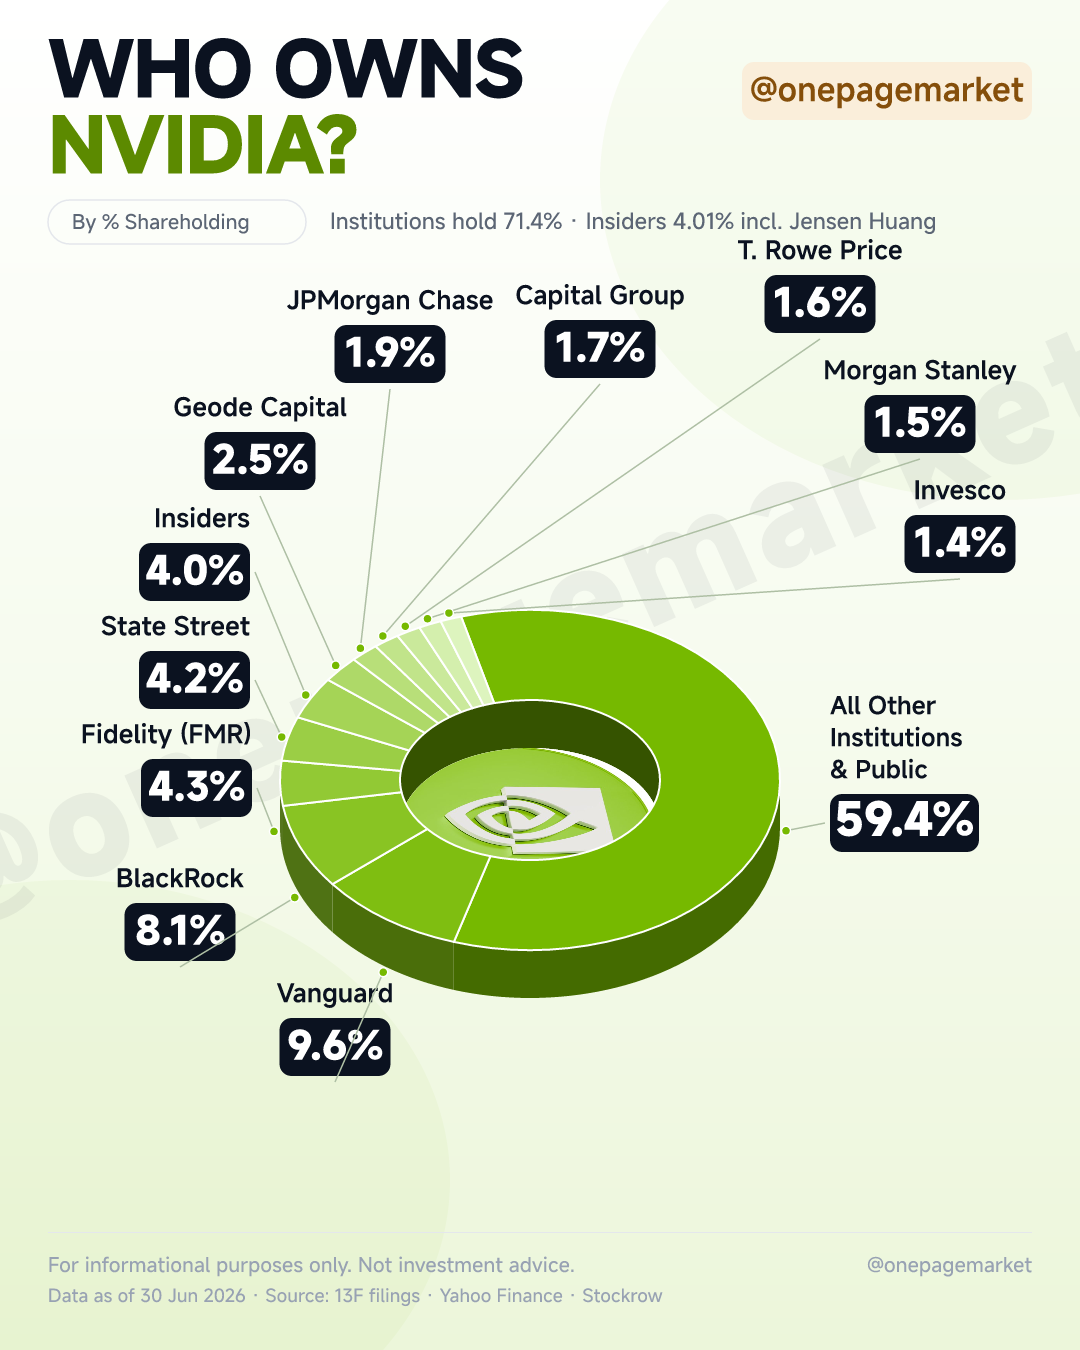
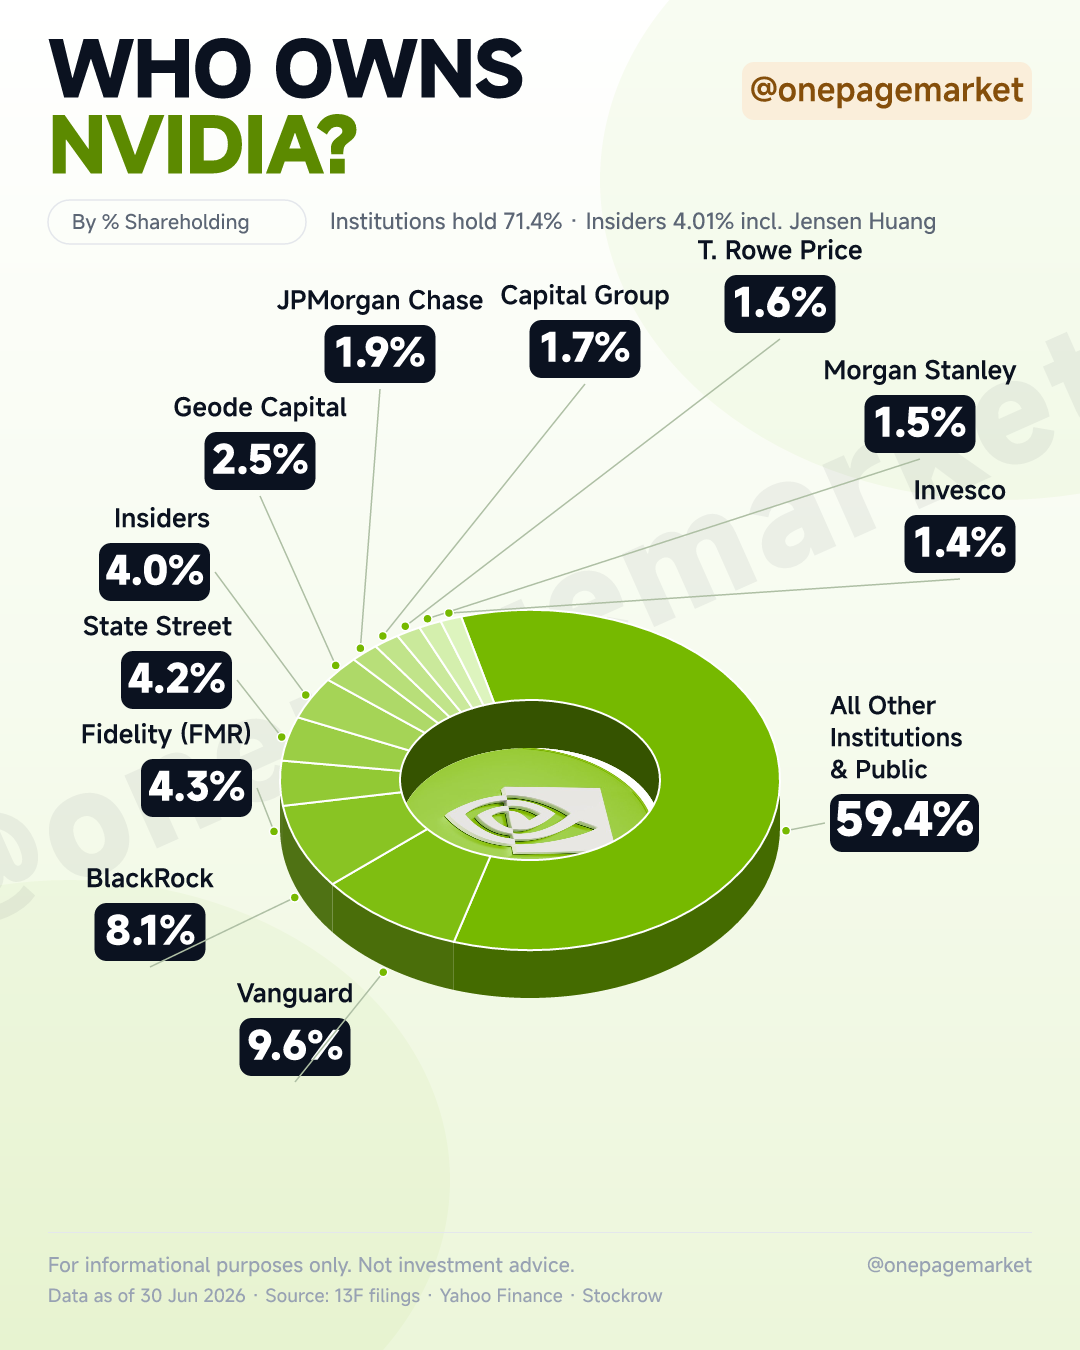
NVDA: left labels shifted left w/ elliptical stagger, top trio tightened

diff --git a/docs/index.html b/docs/index.html
@@ -48,7 +48,7 @@
 <div class="sub">預計下一張圖：On Deck · 今天 20:30（北京時間）</div></header>
 <div class="rule"></div>
 <main>
-<section class="sec"><div class="ghead"><b>Who Owns NVDA?</b><span class="day">Wed, Oct 21 · 1 張</span></div><div class="tweet"><button class="copy" data-t="Who owns NVIDIA? Institutions hold 71.4% — top: Vanguard 9.6%, BlackRock 8.1%, Fidelity 4.3%, State Street 4.2%. Insiders (incl. Jensen Huang) 4.0%. Everyone else: 59.4%. 🧵">複製文案</button><p>Who owns NVIDIA? Institutions hold 71.4% — top: Vanguard 9.6%, BlackRock 8.1%, Fidelity 4.3%, State Street 4.2%. Insiders (incl. Jensen Huang) 4.0%. Everyone else: 59.4%. 🧵</p><span class="len">172 字</span></div><div class="shots"><div class="shot"><a class="link" href="img/who-owns-nvda-20261021.png" target="_blank"><img src="img/who-owns-nvda-20261021.png" loading="lazy" alt="who-owns-nvda-20261021.png"></a><span class="ts">2026-10-21 19:55:49</span></div></div></section><section class="sec"><div class="ghead"><b>On Deck</b><span class="day">Wed, Oct 21 · 1 張</span></div><div class="tweet"><button class="copy" data-t="On Deck for today: Atlanta Fed GDPNow; Housing Starts; Building Permits. 91 companies report — PM, TMO, ABT before the open, META, TSLA, LRCX after the close. 🧵">複製文案</button><p>On Deck for today: Atlanta Fed GDPNow; Housing Starts; Building Permits. 91 companies report — PM, TMO, ABT before the open, META, TSLA, LRCX after the close. 🧵</p><span class="len">160 字</span></div><div class="shots"><div class="shot"><a class="link" href="img/on-deck-20261021.png" target="_blank"><img src="img/on-deck-20261021.png" loading="lazy" alt="on-deck-20261021.png"></a><span class="ts">2026-10-21 13:57:18</span></div></div></section><section class="sec"><div class="ghead"><b>Week Ahead</b><span class="day">Wed, Oct 21 · 1 張</span></div><div class="tweet"><button class="copy" data-t="This week in US markets: Mon IMF Meetings, Tue NAHB Housing Market Index, Wed Atlanta Fed GDPNow. Key earnings: GE, NFLX, PM, META, PG, WDC. Full calendar in the card. 🧵">複製文案</button><p>This week in US markets: Mon IMF Meetings, Tue NAHB Housing Market Index, Wed Atlanta Fed GDPNow. Key earnings: GE, NFLX, PM, META, PG, WDC. Full calendar in the card. 🧵</p><span class="len">169 字</span></div><div class="shots"><div class="shot"><a class="link" href="img/week-ahead-20261021.png" target="_blank"><img src="img/week-ahead-20261021.png" loading="lazy" alt="week-ahead-20261021.png"></a><span class="ts">2026-10-21 13:55:01</span></div></div></section><section class="sec"><div class="ghead"><b>Winners &amp; Losers</b><span class="day">Tue, Oct 20 · 1 張</span></div><div class="tweet"><button class="copy" data-t="Week in review: top gainers ASTS +38.4%, RKLB +29.1%, SOFI +23.7%. Biggest drops: LULU -28.6%, DG -24.3%, MRNA -21.7%. Universe: 503 most-traded US names. 🧵">複製文案</button><p>Week in review: top gainers ASTS +38.4%, RKLB +29.1%, SOFI +23.7%. Biggest drops: LULU -28.6%, DG -24.3%, MRNA -21.7%. Universe: 503 most-traded US names. 🧵</p><span class="len">156 字</span></div><div class="shots"><div class="shot"><a class="link" href="img/winners-losers-20261020.png" target="_blank"><img src="img/winners-losers-20261020.png" loading="lazy" alt="winners-losers-20261020.png"></a><span class="ts">2026-10-21 13:56:03</span></div></div></section><section class="sec"><div class="ghead"><b>The Close</b><span class="day">Tue, Oct 20 · 1 張</span></div><div class="tweet"><button class="copy" data-t="The Close: S&amp;P 500 +0.28% · Nasdaq -0.02% · Russell 2000 +1.65%. Most traded: MU, NVDA, AMZN. Breadth 35% advancers. 🧵">複製文案</button><p>The Close: S&amp;P 500 +0.28% · Nasdaq -0.02% · Russell 2000 +1.65%. Most traded: MU, NVDA, AMZN. Breadth 35% advancers. 🧵</p><span class="len">118 字</span></div><div class="shots"><div class="shot"><a class="link" href="img/the-close-20261020.png" target="_blank"><img src="img/the-close-20261020.png" loading="lazy" alt="the-close-20261020.png"></a><span class="ts">2026-10-21 09:33:35</span></div></div></section><section class="sec"><div class="ghead"><b>On Deck</b><span class="day">Tue, Oct 20 · 1 張</span></div><div class="tweet"><button class="copy" data-t="On Deck for today: NAHB Housing Market Index; 3-Month Bill Auction; 6-Month Bill Auction. 55 companies report — GE, RTX, MMM before the open, NFLX, ISRG, CB after the close. 🧵">複製文案</button><p>On Deck for today: NAHB Housing Market Index; 3-Month Bill Auction; 6-Month Bill Auction. 55 companies report — GE, RTX, MMM before the open, NFLX, ISRG, CB after the close. 🧵</p><span class="len">175 字</span></div><div class="shots"><div class="shot"><a class="link" href="img/on-deck-20261020.png" target="_blank"><img src="img/on-deck-20261020.png" loading="lazy" alt="on-deck-20261020.png"></a><span class="ts">2026-10-20 19:51:22</span></div></div></section><section class="sec"><div class="ghead"><b>The Close</b><span class="day">Mon, Oct 19 · 1 張</span></div><div class="tweet"><button class="copy" data-t="The Close: S&amp;P 500 +0.28% · Nasdaq -0.02% · Russell 2000 +1.65%. Most traded: MU, NVDA, AMZN. Breadth 35% advancers. 🧵">複製文案</button><p>The Close: S&amp;P 500 +0.28% · Nasdaq -0.02% · Russell 2000 +1.65%. Most traded: MU, NVDA, AMZN. Breadth 35% advancers. 🧵</p><span class="len">118 字</span></div><div class="shots"><div class="shot"><a class="link" href="img/the-close-20261019.png" target="_blank"><img src="img/the-close-20261019.png" loading="lazy" alt="the-close-20261019.png"></a><span class="ts">2026-10-20 19:51:22</span></div></div></section>
+<section class="sec"><div class="ghead"><b>Who Owns NVDA?</b><span class="day">Wed, Oct 21 · 1 張</span></div><div class="tweet"><button class="copy" data-t="Who owns NVIDIA? Institutions hold 71.4% — top: Vanguard 9.6%, BlackRock 8.1%, Fidelity 4.3%, State Street 4.2%. Insiders (incl. Jensen Huang) 4.0%. Everyone else: 59.4%. 🧵">複製文案</button><p>Who owns NVIDIA? Institutions hold 71.4% — top: Vanguard 9.6%, BlackRock 8.1%, Fidelity 4.3%, State Street 4.2%. Insiders (incl. Jensen Huang) 4.0%. Everyone else: 59.4%. 🧵</p><span class="len">172 字</span></div><div class="shots"><div class="shot"><a class="link" href="img/who-owns-nvda-20261021.png" target="_blank"><img src="img/who-owns-nvda-20261021.png" loading="lazy" alt="who-owns-nvda-20261021.png"></a><span class="ts">2026-10-21 20:25:28</span></div></div></section><section class="sec"><div class="ghead"><b>On Deck</b><span class="day">Wed, Oct 21 · 1 張</span></div><div class="tweet"><button class="copy" data-t="On Deck for today: Atlanta Fed GDPNow; Housing Starts; Building Permits. 91 companies report — PM, TMO, ABT before the open, META, TSLA, LRCX after the close. 🧵">複製文案</button><p>On Deck for today: Atlanta Fed GDPNow; Housing Starts; Building Permits. 91 companies report — PM, TMO, ABT before the open, META, TSLA, LRCX after the close. 🧵</p><span class="len">160 字</span></div><div class="shots"><div class="shot"><a class="link" href="img/on-deck-20261021.png" target="_blank"><img src="img/on-deck-20261021.png" loading="lazy" alt="on-deck-20261021.png"></a><span class="ts">2026-10-21 13:57:18</span></div></div></section><section class="sec"><div class="ghead"><b>Week Ahead</b><span class="day">Wed, Oct 21 · 1 張</span></div><div class="tweet"><button class="copy" data-t="This week in US markets: Mon IMF Meetings, Tue NAHB Housing Market Index, Wed Atlanta Fed GDPNow. Key earnings: GE, NFLX, PM, META, PG, WDC. Full calendar in the card. 🧵">複製文案</button><p>This week in US markets: Mon IMF Meetings, Tue NAHB Housing Market Index, Wed Atlanta Fed GDPNow. Key earnings: GE, NFLX, PM, META, PG, WDC. Full calendar in the card. 🧵</p><span class="len">169 字</span></div><div class="shots"><div class="shot"><a class="link" href="img/week-ahead-20261021.png" target="_blank"><img src="img/week-ahead-20261021.png" loading="lazy" alt="week-ahead-20261021.png"></a><span class="ts">2026-10-21 13:55:01</span></div></div></section><section class="sec"><div class="ghead"><b>Winners &amp; Losers</b><span class="day">Tue, Oct 20 · 1 張</span></div><div class="tweet"><button class="copy" data-t="Week in review: top gainers ASTS +38.4%, RKLB +29.1%, SOFI +23.7%. Biggest drops: LULU -28.6%, DG -24.3%, MRNA -21.7%. Universe: 503 most-traded US names. 🧵">複製文案</button><p>Week in review: top gainers ASTS +38.4%, RKLB +29.1%, SOFI +23.7%. Biggest drops: LULU -28.6%, DG -24.3%, MRNA -21.7%. Universe: 503 most-traded US names. 🧵</p><span class="len">156 字</span></div><div class="shots"><div class="shot"><a class="link" href="img/winners-losers-20261020.png" target="_blank"><img src="img/winners-losers-20261020.png" loading="lazy" alt="winners-losers-20261020.png"></a><span class="ts">2026-10-21 13:56:03</span></div></div></section><section class="sec"><div class="ghead"><b>The Close</b><span class="day">Tue, Oct 20 · 1 張</span></div><div class="tweet"><button class="copy" data-t="The Close: S&amp;P 500 +0.28% · Nasdaq -0.02% · Russell 2000 +1.65%. Most traded: MU, NVDA, AMZN. Breadth 35% advancers. 🧵">複製文案</button><p>The Close: S&amp;P 500 +0.28% · Nasdaq -0.02% · Russell 2000 +1.65%. Most traded: MU, NVDA, AMZN. Breadth 35% advancers. 🧵</p><span class="len">118 字</span></div><div class="shots"><div class="shot"><a class="link" href="img/the-close-20261020.png" target="_blank"><img src="img/the-close-20261020.png" loading="lazy" alt="the-close-20261020.png"></a><span class="ts">2026-10-21 09:33:35</span></div></div></section><section class="sec"><div class="ghead"><b>On Deck</b><span class="day">Tue, Oct 20 · 1 張</span></div><div class="tweet"><button class="copy" data-t="On Deck for today: NAHB Housing Market Index; 3-Month Bill Auction; 6-Month Bill Auction. 55 companies report — GE, RTX, MMM before the open, NFLX, ISRG, CB after the close. 🧵">複製文案</button><p>On Deck for today: NAHB Housing Market Index; 3-Month Bill Auction; 6-Month Bill Auction. 55 companies report — GE, RTX, MMM before the open, NFLX, ISRG, CB after the close. 🧵</p><span class="len">175 字</span></div><div class="shots"><div class="shot"><a class="link" href="img/on-deck-20261020.png" target="_blank"><img src="img/on-deck-20261020.png" loading="lazy" alt="on-deck-20261020.png"></a><span class="ts">2026-10-20 19:51:22</span></div></div></section><section class="sec"><div class="ghead"><b>The Close</b><span class="day">Mon, Oct 19 · 1 張</span></div><div class="tweet"><button class="copy" data-t="The Close: S&amp;P 500 +0.28% · Nasdaq -0.02% · Russell 2000 +1.65%. Most traded: MU, NVDA, AMZN. Breadth 35% advancers. 🧵">複製文案</button><p>The Close: S&amp;P 500 +0.28% · Nasdaq -0.02% · Russell 2000 +1.65%. Most traded: MU, NVDA, AMZN. Breadth 35% advancers. 🧵</p><span class="len">118 字</span></div><div class="shots"><div class="shot"><a class="link" href="img/the-close-20261019.png" target="_blank"><img src="img/the-close-20261019.png" loading="lazy" alt="the-close-20261019.png"></a><span class="ts">2026-10-20 19:51:22</span></div></div></section>
 
 <p class="hint">點圖開原尺寸 · 長按可直接複製或存圖</p>
 </main>

diff --git a/scripts/build_ownership.js b/scripts/build_ownership.js
@@ -202,16 +202,17 @@ const drawLabel = (s, x, bt, anchor, nfs = 25, pfs = 38) => {
 
 // 橢圓環繞布局：12 個標籤沿橢圓按扇區圓序均勻排列（右→左下→左→左上→頂→右上）
 // 圓序單調 → 引導線兩兩不交叉；下半圓錨點在側壁底緣。
+// 注意：Insiders 需在 SS 之前繪製（其引導線從 SS 標籤背後穿過，由 pill 蓋住）
 drawLabel(segByName['All Other'], 830, 690, 'start', 24, 44);        // 右
-drawLabel(segByName['Vanguard'], 335, 978, 'middle');                // 左下
-drawLabel(segByName['BlackRock'], 180, 863, 'middle');               // 左下
+drawLabel(segByName['Vanguard'], 295, 978, 'middle');                // 左下
+drawLabel(segByName['BlackRock'], 150, 863, 'middle');               // 左下
+drawLabel(segByName['Insiders'], 210, 503, 'end');                   // 左上
+drawLabel(segByName['State Street'], 232, 611, 'end');               // 左
 drawLabel(segByName['Fidelity (FMR)'], 252, 719, 'end');             // 左
-drawLabel(segByName['State Street'], 250, 611, 'end');               // 左上
-drawLabel(segByName['Insiders'], 250, 503, 'end');                   // 左上
 drawLabel(segByName['Geode Capital'], 260, 392, 'middle');           // 上左
-drawLabel(segByName['JPMorgan Chase'], 390, 285, 'middle');          // 上左
-drawLabel(segByName['Capital Group'], 600, 280, 'middle');           // 上
-drawLabel(segByName['T. Rowe Price'], 820, 235, 'middle');           // 上右
+drawLabel(segByName['JPMorgan Chase'], 380, 285, 'middle');          // 上左
+drawLabel(segByName['Capital Group'], 585, 280, 'middle');           // 上
+drawLabel(segByName['T. Rowe Price'], 780, 235, 'middle');           // 上右
 drawLabel(segByName['Morgan Stanley'], 920, 355, 'middle');          // 右上
 drawLabel(segByName['Invesco'], 960, 475, 'middle');                 // 右上
 
